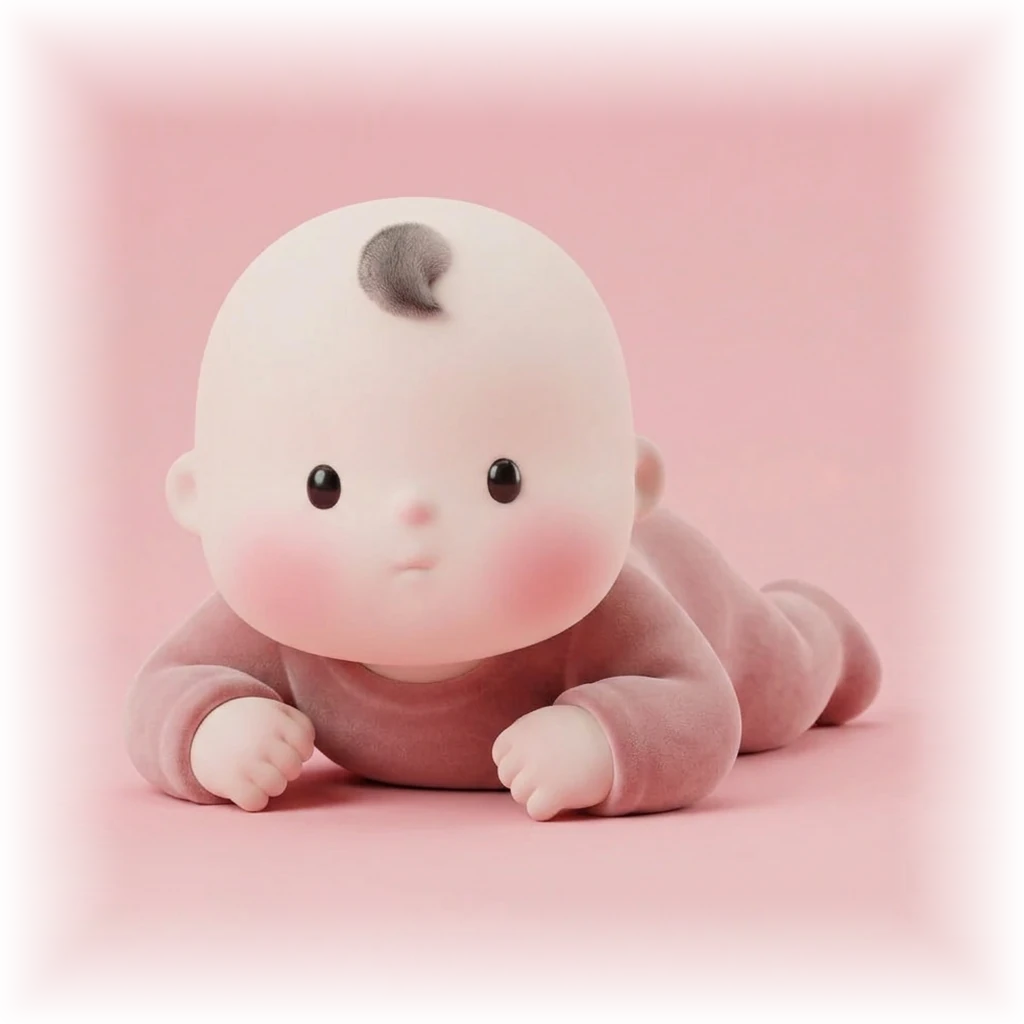
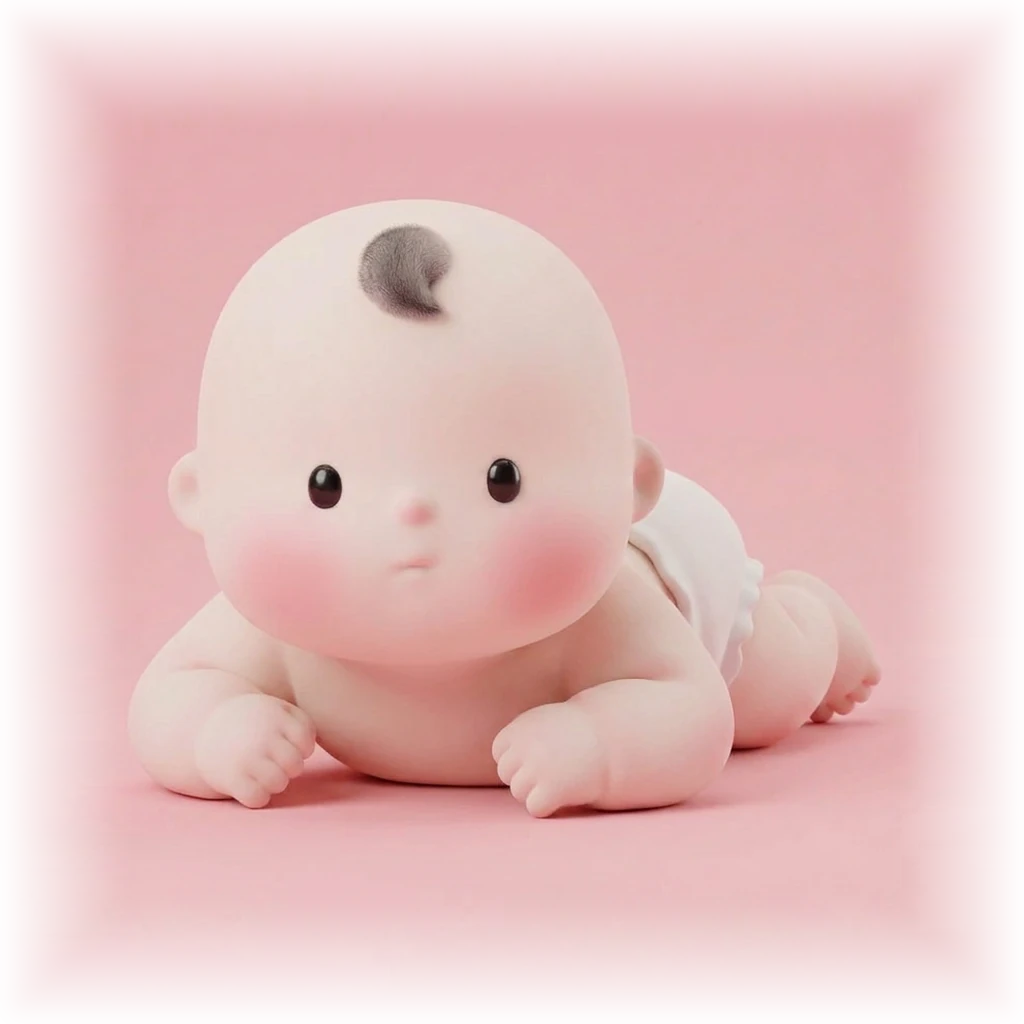
아기 기록표 갱신

Changed region(s): [[0.125, 0.4688, 0.875, 0.8125], [0.3438, 0.2188, 0.4062, 0.25], [0.2812, 0.4688, 0.3125, 0.5]]

diff --git a/index.html b/index.html
@@ -650,8 +650,17 @@
   .frow input.wide { width: 100%; text-align: left; font-size: 17px; font-weight: 400; }
   .frow:has(> .nx) { position: relative; }   /* 숫자 칸 오른쪽 X = 한 번에 지우기 (10-23 사장님 "내용 있는 건 바로 지울 수 있게") */
   .frow input.has-x { padding-right: 38px; }
-  .frow .nx { position: absolute; right: 8px; top: 50%; transform: translateY(-50%); display: none; }
-  .frow .nx.on { display: grid; }
+  .lr { display: grid; grid-template-columns: repeat(auto-fit, minmax(160px, 1fr)); gap: 10px; padding: 11px 0; border-top: 1px solid var(--line); }   /* 모유 = 왼쪽·오른쪽 상자 나란히, 상자 안은 가로 한 줄 (10-23) */
+  .lrb { display: flex; align-items: center; gap: 6px; background: var(--bg); border-radius: 14px; padding: 4px 12px; box-shadow: inset 0 0 0 2px transparent; transition: box-shadow .15s; }
+  .lrb:focus-within { box-shadow: inset 0 0 0 2px var(--ok); }
+  .lrb label { font-size: 15px; color: var(--fg2); white-space: nowrap; }
+  .lrb .in { position: relative; flex: 1; min-width: 0; }
+  .lrb input { width: 100%; background: none; border: 0; outline: none; padding: 8px 0; text-align: right; font-size: 24px; font-weight: 700; font-variant-numeric: tabular-nums; }
+  .lrb input.has-x { padding-right: 28px; }
+  .lr .lrb .in .nx { right: 0; }
+  .lrb .u { font-size: 14px; color: var(--fg3); }
+  .frow .nx, .lrb .in .nx { position: absolute; right: 8px; top: 50%; transform: translateY(-50%); display: none; }
+  .frow .nx.on, .lrb .nx.on { display: grid; }
   .frow.col { flex-direction: column; align-items: stretch; gap: 8px; }
   .ml { display: flex; gap: 6px; margin: 6px 0 4px; }
   .ml button { flex: 1; padding: 12px 0; border-radius: 999px; background: var(--bg); font-weight: 600; font-variant-numeric: tabular-nums; color: var(--fg2); }
@@ -1184,7 +1193,9 @@ function subscribe() {
 
 // ── 렌더
 const KIND = { feed: '수유', diaper: '기저귀', sleep: '잠', temp: '체온' };
-const FEED = { formula: '분유', breast: '모유', pumped: '유축' };
+const FEED = { formula: '분유', breast: '모유', pumped: '유축 수유' };   // 유축 = 짜 둔 모유를 젖병으로 먹인 것 (10-23 이름 바꿈, 짜 놓기만 한 양과 헷갈리지 않게)
+// 모유 = 왼쪽·오른쪽 분 (10-23). min 은 합계로 같이 둔다 (옛 기록·통계 호환)
+const breastText = d => d.l != null || d.r != null ? [d.l ? '왼 ' + d.l + '분' : '', d.r ? '오 ' + d.r + '분' : ''].filter(Boolean).join(' · ') : (d.min ? d.min + '분' : '');
 let avatarById = {};   // user_id → 이미지 URL (profiles.avatar_url, 없으면 첫 글자)
 const CHAR = { dad: 'img/아빠-2g-b.png', mom: 'img/엄마-2g-b.png' };   // 프로필은 카카오 사진이 아니라 캐릭터 (09-27 사장님)
 const charOf = id => { const v = avatarById[id] || ''; return v === 'char:mom' ? 'mom' : v === 'char:dad' ? 'dad' : (id === baby.created_by ? 'dad' : 'mom'); };   // 기본: 만든 사람=아빠, 합류=엄마
@@ -1192,7 +1203,7 @@ const avatarSrc = id => CHAR[charOf(id)];
 const avatar = id => `<span class="av" title="${esc(nickById[id] || '')}"><img src="${esc(avatarSrc(id))}" alt=""></span>`;
 function detailOf(l) {
   const d = l.detail || {};
-  if (l.kind === 'feed') return `${FEED[d.type] || '수유'} ${d.type === 'breast' ? (d.min ? d.min + '분' : '') : (d.ml ? d.ml + 'ml' : '')}`.trim();
+  if (l.kind === 'feed') return `${FEED[d.type] || '수유'} ${d.type === 'breast' ? breastText(d) : (d.ml ? d.ml + 'ml' : '')}`.trim();
   if (l.kind === 'diaper') return [d.pee && '소변', d.poo && '대변'].filter(Boolean).join(' + ') || '기저귀';
   if (l.kind === 'sleep') return l.ended_at ? `→ ${hhmm(l.ended_at)} 깸 · ${dur(l.at, l.ended_at)}` : `자는 중 · ${dur(l.at)}`;
   if (l.kind === 'temp') return `${d.c ?? '—'}℃`;
@@ -1742,7 +1753,7 @@ const BABY_STAGES = [
   // 10-22 사장님: 2개월 단위 → 1개월 단위. 짝수 달 = 기존 확정본, 홀수 달 = 새로(미지, 1개월단위-1022). 색은 짝 달 계열 변주(A안)
   // ?r=n = 그림을 같은 이름으로 바꿀 때 폰에 남은 옛 그림 대신 새로 받게 (10-12 머리 교체가 폰에서 안 바뀜)
   { from: 0, to: 0, img: 'img/아기-단계-01.webp', bg: ['#e5b3b6', '#e7bcbe', '#e8c2c3'], lab: '#9b4a57', size: 260 },   // 크림 속싸개 + 분홍
-  { from: 1, to: 1, img: 'img/아기-단계-m1.webp', bg: ['#e4b1b4', '#e4b5b7', '#e8babc'], lab: '#9a3f4c', size: 260 },   // 더스티 로즈 우주복, 엎드려 턱만 살짝 (1-C)
+  { from: 1, to: 1, img: 'img/아기-단계-m1.webp?r=2', bg: ['#e4b1b4', '#e4b5b7', '#e8babc'], lab: '#9a3f4c', size: 260 },   // 엎드려 턱만 살짝, 기저귀만 찬 신생아 (1-D = 1-C 옷만 바꿈, 10-23. 배경 같아 카드색 유지)
   { from: 2, to: 2, img: 'img/아기-단계-23.webp', bg: ['#c7bbde', '#ccc0de', '#d3c7e1'], lab: '#5e3b91', size: 300 },   // 노랑 우주복 + 라벤더, 첫 웃음 (누운 자세라 크게)
   { from: 3, to: 3, img: 'img/아기-단계-m3.webp', bg: ['#c5b5d3', '#ccc1da', '#cebfd8'], lab: '#5d4181', size: 300 },   // 마리골드 우주복 + 라벤더, 바운서에서 소리 내어 웃기 (3-D)
   { from: 4, to: 4, img: 'img/아기-단계-45.webp', bg: ['#ecc8ae', '#ebc9b4', '#eacbb6'], lab: '#a3532a', size: 270 },   // 세이지 우주복 + 피치, 발끝 잡기 (10-01 사장님 A130)
@@ -1958,7 +1969,7 @@ function nowTime() { const d = new Date(); return `${pad(d.getHours())}:${pad(d.
 // 시트 안 숫자 칸마다 X 붙이기 — 칸을 감싸지 않고 옆에 붙여서 이미 잡은 포커스·키보드를 안 놓침 (10-23)
 const NX_SVG = '<svg viewBox="0 0 24 24"><path d="M8 8l8 8M16 8l-8 8"/></svg>';
 new MutationObserver(() => {
-  for (const inp of $('sheet').querySelectorAll('.frow > input[type=number]:not(.has-x)')) {
+  for (const inp of $('sheet').querySelectorAll('.frow > input[type=number]:not(.has-x), .lrb .in > input[type=number]:not(.has-x)')) {
     const x = document.createElement('button');
     x.type = 'button'; x.className = 'bf-x nx'; x.setAttribute('aria-label', '지우기'); x.innerHTML = NX_SVG;
     const upd = () => x.classList.toggle('on', document.activeElement === inp && inp.value !== '');
@@ -1978,10 +1989,12 @@ function openSheet(kind, log) {
   if (kind === 'feed') {
     const type = d.type || localStorage.getItem('bb-feedtype') || 'formula';
     const lastMl = +(localStorage.getItem('bb-ml') || 60);
+    const lastBr = log ? null : logs.filter(l => l.kind === 'feed' && l.detail?.type === 'breast').sort((a, b) => +new Date(b.at) - +new Date(a.at))[0];   // 다음엔 반대쪽부터 물리게 지난번 보여 주기
     body = `<div class="seg" id="feed-type">${Object.entries(FEED).map(([k, v]) => `<button type="button" data-v="${k}" class="${k === type ? 'on' : ''}">${v}</button>`).join('')}</div>
       <div id="feed-ml" class="${type === 'breast' ? 'hidden' : ''}"><div class="ml"><button type="button" data-add="0" class="clr">지우기</button>${[5, 10, 20, 50].map(v => `<button type="button" data-add="${v}">+${v}</button>`).join('')}</div>
       <div class="frow"><label>양 (ml)</label><input type="number" inputmode="numeric" id="f-ml" value="${d.ml || lastMl}"></div></div>
-      <div id="feed-min" class="${type === 'breast' ? '' : 'hidden'}"><div class="frow"><label>시간 (분)</label><input type="number" inputmode="numeric" id="f-min" value="${d.min || 15}"></div></div>`;
+      <div id="feed-min" class="${type === 'breast' ? '' : 'hidden'}"><div class="lr"><div class="lrb"><label for="f-l">왼쪽</label><div class="in"><input type="number" inputmode="numeric" id="f-l" placeholder="0" value="${d.l ?? (d.r == null && d.min ? d.min : '')}"></div><span class="u">분</span></div>
+        <div class="lrb"><label for="f-r">오른쪽</label><div class="in"><input type="number" inputmode="numeric" id="f-r" placeholder="0" value="${d.r ?? ''}"></div><span class="u">분</span></div></div>${lastBr ? `<div class="foot" style="margin:2px 0 6px">지난번 ${breastText(lastBr.detail)}</div>` : ''}</div>`;
   } else if (kind === 'diaper') {
     body = `<div class="seg" id="dp-type">
       <button type="button" data-v="pee" class="${d.pee && !d.poo ? 'on' : ''}">소변</button>
@@ -2048,7 +2061,7 @@ async function saveSheet() {
   const detail = {}; let ended_at = editing ? editing.ended_at : null;
   if (kind === 'feed') {
     detail.type = $('feed-type').querySelector('.on').dataset.v;
-    if (detail.type === 'breast') detail.min = +$('f-min').value || 0; else { detail.ml = +$('f-ml').value || 0; localStorage.setItem('bb-ml', detail.ml); }
+    if (detail.type === 'breast') { const l = $('f-l').value, r = $('f-r').value; detail.l = l === '' ? null : +l; detail.r = r === '' ? null : +r; detail.min = (detail.l || 0) + (detail.r || 0); } else { detail.ml = +$('f-ml').value || 0; localStorage.setItem('bb-ml', detail.ml); }
     localStorage.setItem('bb-feedtype', detail.type);
   } else if (kind === 'diaper') { const v = $('dp-type').querySelector('.on').dataset.v; detail.pee = v !== 'poo'; detail.poo = v !== 'pee'; }
   else if (kind === 'temp') { detail.c = +$('f-c').value || null; if (!detail.c) { $('f-c').focus(); return toast('체온을 적어 주세요'); } }
@@ -2195,7 +2208,7 @@ function fillSettings() {
   $('set-nick').textContent = me.nickname; $('set-members').textContent = Object.values(nickById).join(', ');
   for (const b of $('char-seg').children) b.classList.toggle('on', b.dataset.v === charOf(me.id));
 }
-const VER = 'v1.08 · 10-23';
+const VER = 'v1.09 · 10-23';
 $('ver').textContent = '기특일기 ' + VER;
 $('reload-ver').textContent = VER.split(' · ')[0];
 // ── 새 판 자동 반영: 홈 화면 앱은 화면을 이어 쓰므로, 앞으로 올 때마다 서버의 VER를 보고 다르면 새로고침
